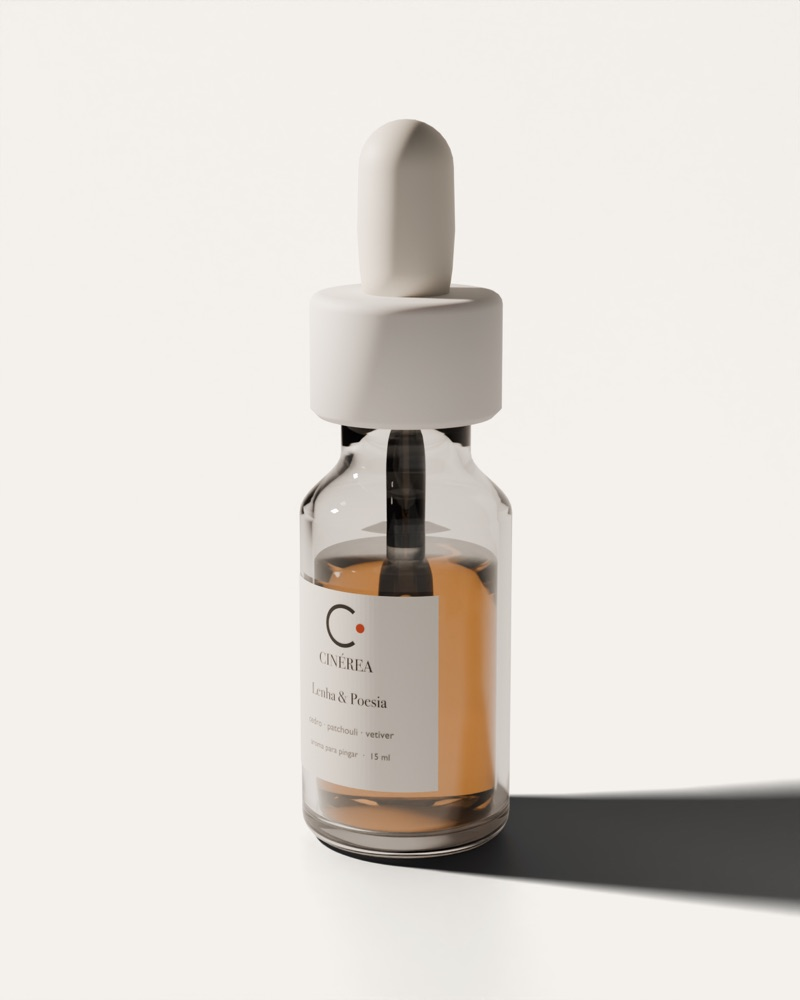
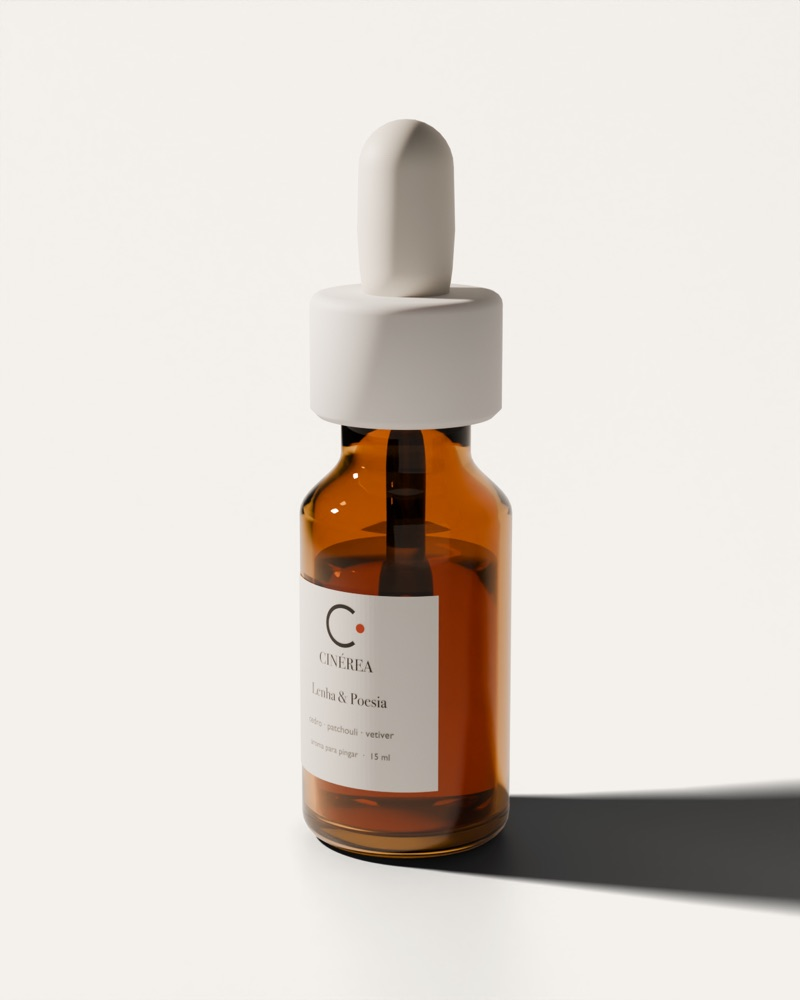
Aromas: os vidrinhos em âmbar
O frasco escolhido é o de 15 ml âmbar com conta-gotas branco. As cinco fotos
da página foram refeitas com ele, e o texto alternativo deixou de falar da
cor do líquido, que o âmbar esconde.

Changed region(s): [[0.375, 0.403, 0.6562, 0.868]]

diff --git a/aromas/index.html b/aromas/index.html
@@ -183,7 +183,7 @@
     </div>
     <figure class="capa-img pousada">
       <img class="laje" src="/aromas/frascos/trio.jpg" width="1200" height="900" fetchpriority="high" decoding="async"
-           alt="Três vidrinhos de pingar com conta-gotas de gola de gesso e rótulo da Cinérea: Névoa da Manhã, Lenha & Poesia e Sopro de Sono.">
+           alt="Três vidrinhos âmbar de pingar com conta-gotas de gola de gesso e rótulo da Cinérea: Névoa da Manhã, Lenha & Poesia e Sopro de Sono.">
     </figure>
   </section>
 
@@ -234,7 +234,7 @@
       <div class="vidros">
         <article class="vidro" style="--tinta:#C9C6BC">
           <img class="laje" src="/aromas/frascos/nevoa.jpg" width="1000" height="1250" loading="lazy" decoding="async"
-               alt="O vidrinho de Névoa da Manhã, com o líquido claro.">
+               alt="O vidrinho âmbar de Névoa da Manhã, com conta-gotas de gola de gesso e rótulo da Cinérea.">
           <p class="hora">de manhã</p>
           <h3 class="serifa">Névoa da Manhã</h3>
           <p class="carater">fresca, de ar frio</p>
@@ -242,7 +242,7 @@
         </article>
         <article class="vidro" style="--tinta:#9C7656">
           <img class="laje" src="/aromas/frascos/lenha.jpg" width="1000" height="1250" loading="lazy" decoding="async"
-               alt="O vidrinho de Lenha & Poesia, com o líquido âmbar.">
+               alt="O vidrinho âmbar de Lenha & Poesia, com conta-gotas de gola de gesso e rótulo da Cinérea.">
           <p class="hora">à lareira</p>
           <h3 class="serifa">Lenha &amp; Poesia</h3>
           <p class="carater">quente, de madeira</p>
@@ -250,7 +250,7 @@
         </article>
         <article class="vidro" style="--tinta:#BDB0A8">
           <img class="laje" src="/aromas/frascos/sopro.jpg" width="1000" height="1250" loading="lazy" decoding="async"
-               alt="O vidrinho de Sopro de Sono, com o líquido rosado claro.">
+               alt="O vidrinho âmbar de Sopro de Sono, com conta-gotas de gola de gesso e rótulo da Cinérea.">
           <p class="hora">à noite</p>
           <h3 class="serifa">Sopro de Sono</h3>
           <p class="carater">floral, macia</p>
@@ -268,7 +268,7 @@
          mesma lista de espera. A foto é o render do modelo real. -->
     <section class="estacao" id="estacao" aria-labelledby="estTitulo">
       <figure class="pousada"><img class="laje l2" src="/aromas/frascos/estacao.jpg" width="1000" height="1250" loading="lazy" decoding="async"
-           alt="A estação de gesso com os três vidrinhos em degraus, um copo de fósforos com a faixa de lixa de riscar, o acendedor longo, o apagador e o rastelo."></figure>
+           alt="A estação de gesso com os três vidrinhos âmbar em degraus, um copo de fósforos com a faixa de lixa de riscar, o acendedor longo, o apagador e o rastelo."></figure>
       <div>
         <p class="rot">Em breve · a estação</p>
         <h2 class="serifa" id="estTitulo">O lugar de<br><em>cada coisa.</em></h2>
